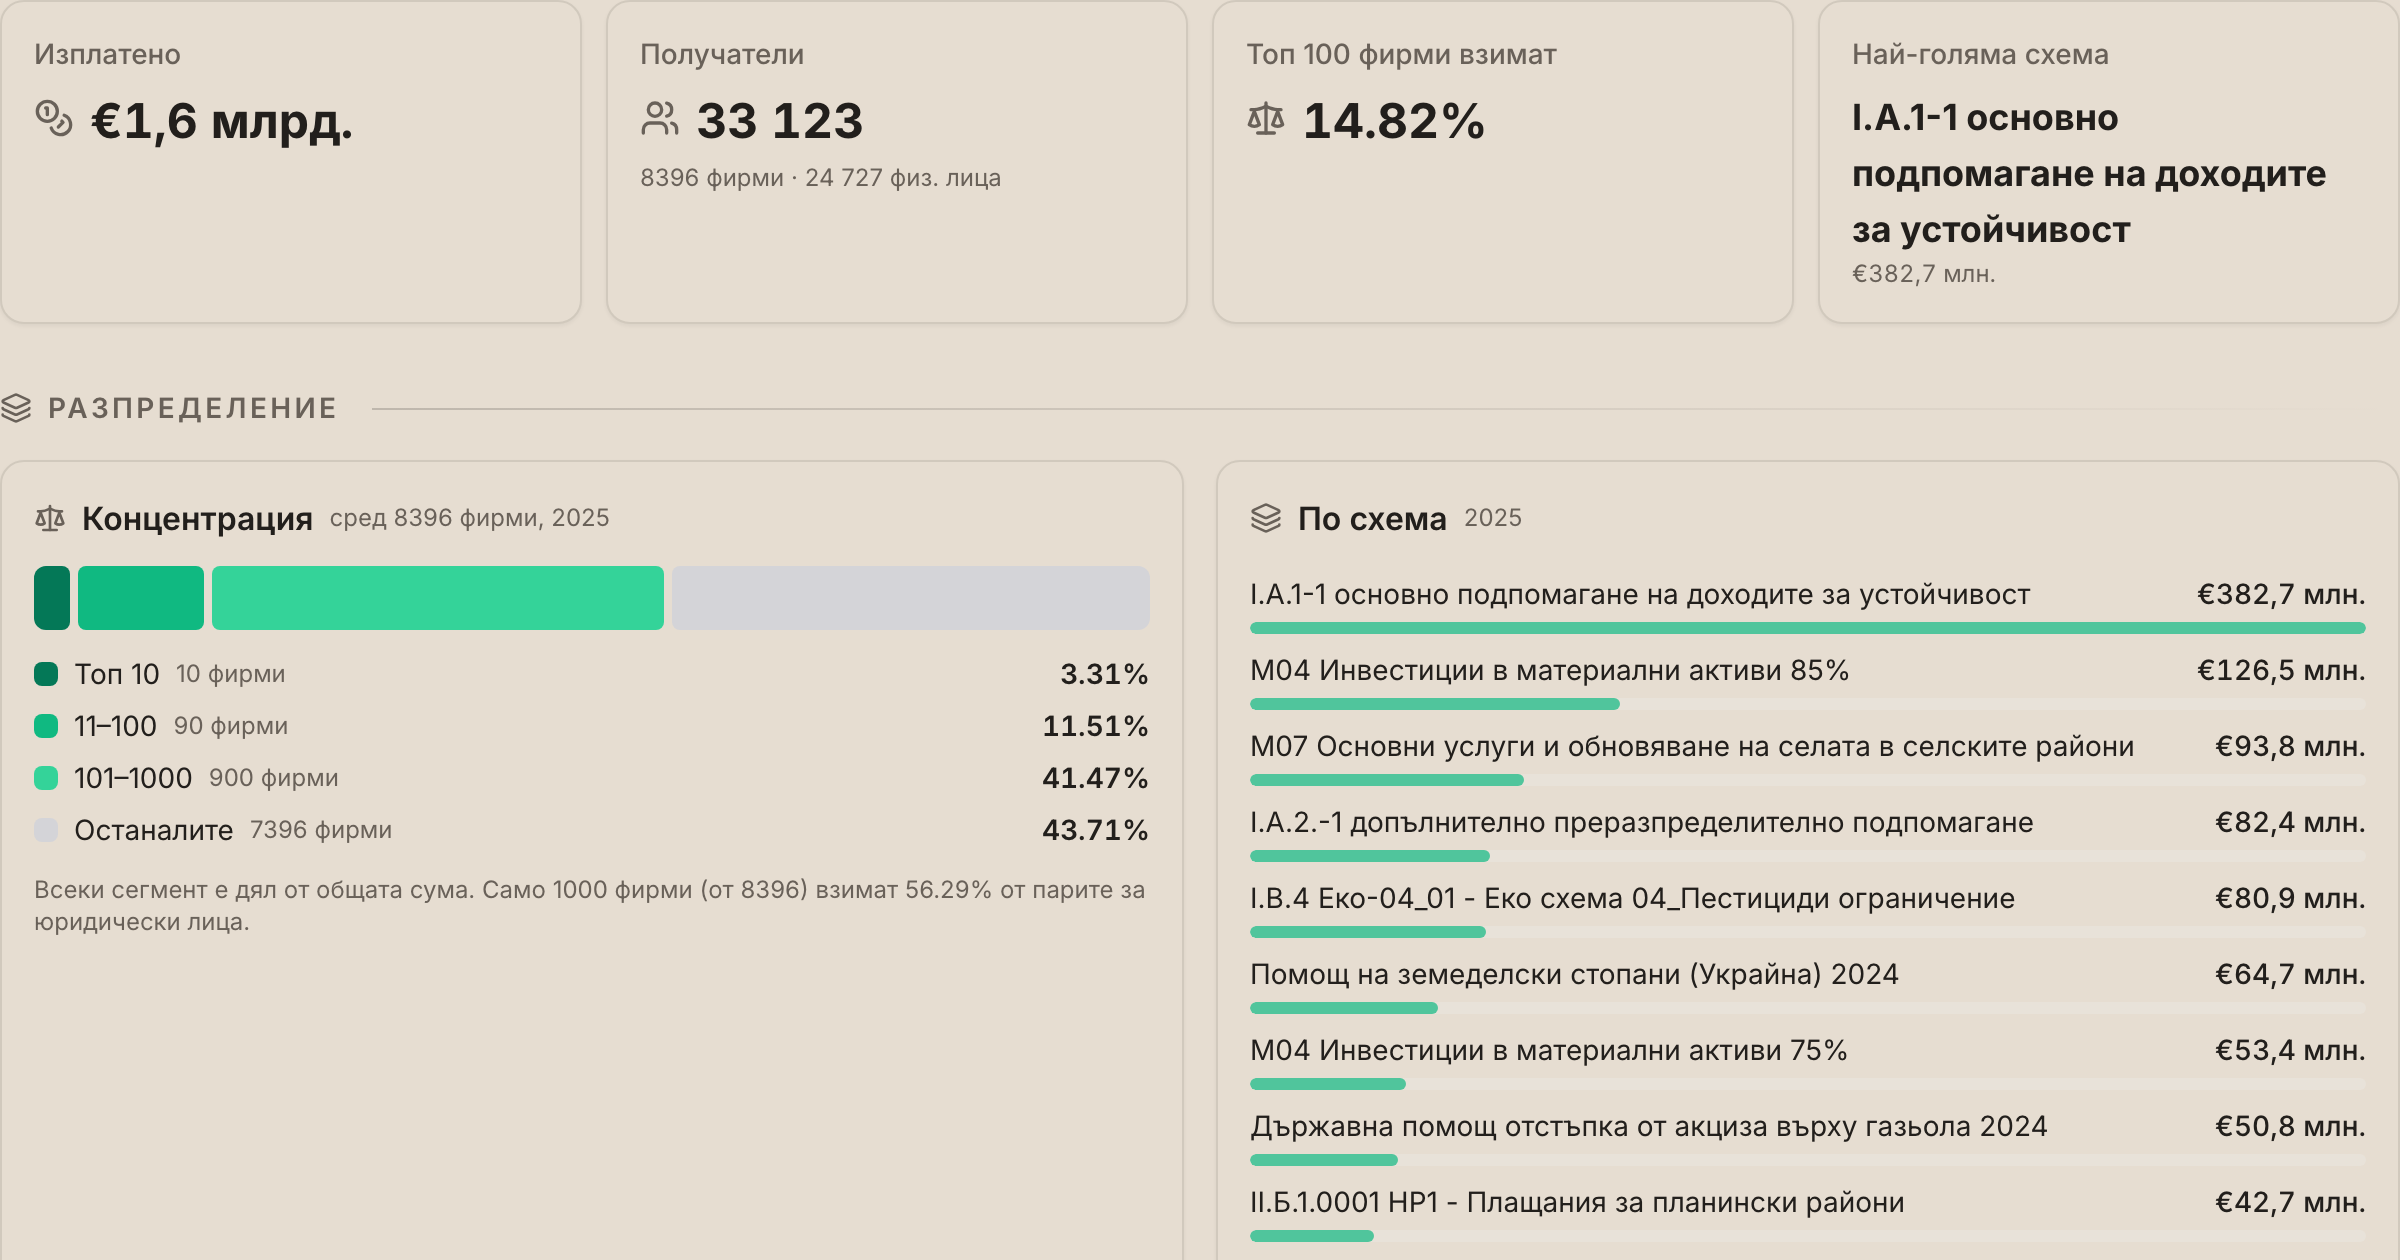
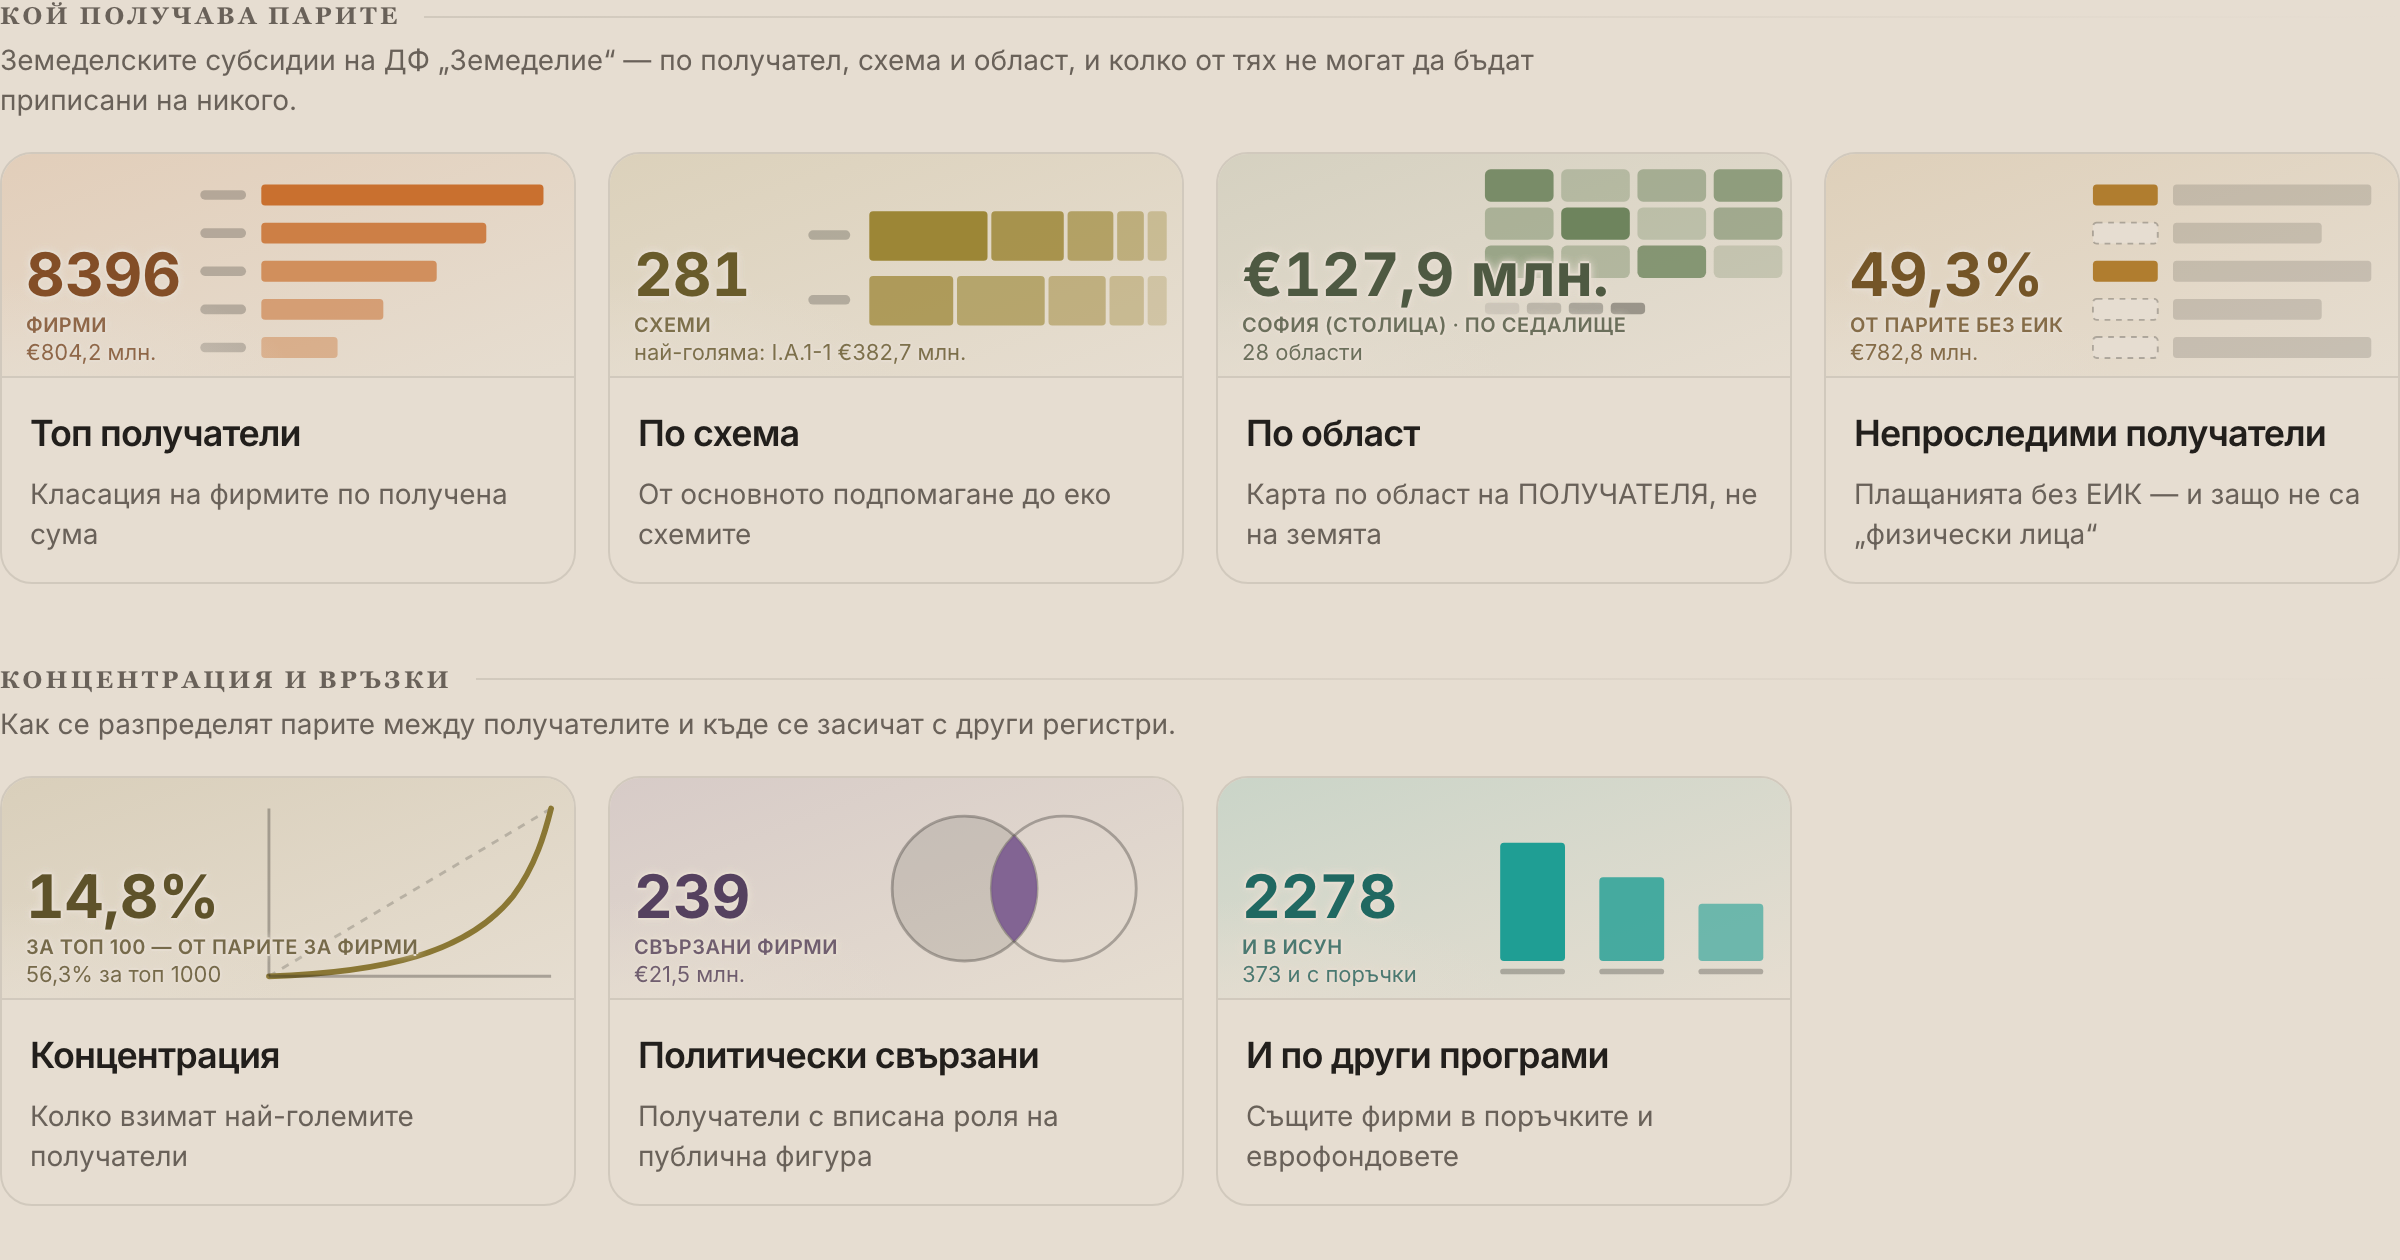
step 10: the artifacts — mostly already shipped, and the hub's card was aimed at a deleted element
§8 asks for three artifacts per page. Nine of the ten already had all three:
they landed in the same commits as their screens, and `subsidies` is an ENFORCED
family in ogAndSitemapCoverage.test.ts, which is what made that hold. What was
left was the hub's own card.

Its capture entry still anchored on `[data-og="subsidies-hero"]` — the KPI strip
step 7 removed because every figure it carried became a tile metric. That run
would have failed loudly (waitForSelector times out at 30s and the run exits 1),
but a failed capture leaves the PREVIOUS png untouched, so the card on disk would
have kept depicting the deleted dashboard until someone re-ran it.

I went against §8 on one point, deliberately. It says to drop the viewport below
1280 so the grid renders three columns instead of slicing a fourth. Tried that:
the card came out a third empty, because the bands are sized 4/3/4/2 precisely
FOR the xl four-column grid and three columns strand band 1's fourth tile. The
fix is the one the previous entry used on the same clip — cap <main> at 1216px so
four columns fit the 1200 crop exactly. Measured on the shipped png: tile borders
land at 0 and 1199.5, edge to edge, no slice.

Reading the card then found a real defect in the Places scene: its lattice ran
under the tile's own metric. „€127,9 млн." plus „СОФИЯ (СТОЛИЦА) · ПО СЕДАЛИЩЕ"
reaches viewBox x=203 and x=212, so the first fix — sliding the lattice right to
[…]

diff --git a/scripts/og/capture-screens.ts b/scripts/og/capture-screens.ts
@@ -959,16 +959,31 @@ const captures: Capture[] = [
   {
     slug: "subsidies",
     routePath: "subsidies",
-    // KPI row (paid / recipients / top-100 share / largest scheme) sitting above
-    // the concentration bar + scheme ranking. Top-aligned on the KPI grid so the
-    // clip leads with the headline numbers and carries the distribution tiles.
-    // The dashboard shell is full-bleed, so at the 1280px capture viewport the
-    // KPI grid is 1249px wide and the outer stat cards get sliced by the 1200px
-    // clip. Capping <main> at 1216px (grid + its 2x8px padding) makes the grid
-    // exactly 1200 so the clip frames it edge to edge. The viewport itself stays
-    // 1280, so the xl: two-column distribution grid below survives.
-    waitFor: '[data-og="subsidies-hero"]',
-    anchor: '[data-og="subsidies-hero"]',
+    // /subsidies is now a TILE HUB (plan step 7), so the card leads with the first band of
+    // tiles — the same shape as /governance and /governance/declarations below.
+    //
+    // The anchor MOVED: it was `[data-og="subsidies-hero"]`, the KPI strip step 7 removed
+    // because every figure it carried became a tile metric. That capture would have FAILED
+    // loudly — `waitForSelector` times out at 30s, throws, and the run exits 1 under the
+    // „⚠ N FAILED" banner — but a failed capture leaves the PREVIOUS png untouched, so the
+    // card on disk would have kept depicting a deleted dashboard until someone re-ran it.
+    //
+    // `waitFor` names a tile's link rather than the container. Note this buys less than it
+    // looks: `InfographicTile`'s root element IS the `<Link>`, so the anchor and the links
+    // appear in the same commit and the ` a` cannot catch a grid that has rendered without
+    // its metrics. What actually covers that is `networkidle` plus `settleMs`. The real
+    // hazard is documented at SubsidiesDashboardScreen.tsx's `hubFailed` — a card shot while
+    // /api/db/agri-hub-stats is down shows thirteen tiles with no numbers — and the only
+    // guard against it is reading the png, which §8 requires anyway.
+    //
+    // STAYS AT THE SHARED 1280 — deliberately, against the plan's own advice to drop below it.
+    // The bands are sized 4/3/4/2 precisely so none strands a tile on a second row of the xl
+    // FOUR-column grid; at three columns band 1's fourth tile wraps alone and the card is a
+    // third empty. Instead the fix is the one the previous entry used for the same clip: cap
+    // <main> at 1216px (the 1200 grid plus its 2x8px padding) so four columns fit the crop
+    // edge to edge rather than being sliced.
+    waitFor: '[data-og="subsidies-hub"] a',
+    anchor: '[data-og="subsidies-hub"]',
     settleMs: 2500,
     extraCss:
       "[data-community-banner]{display:none!important;} main{max-width:1216px!important;}",

diff --git a/src/screens/subsidies/subsidiesScenes.tsx b/src/screens/subsidies/subsidiesScenes.tsx
@@ -134,6 +134,20 @@ const Schemes: FC = () => {
 
 // По област — a coarse map-ish lattice of regions at different intensities. Not a bar chart:
 // the destination is a choropleth, and the scene should read as territory.
+//
+// IT CLEARS THE METRIC VERTICALLY, NOT HORIZONTALLY, and the difference is the whole note.
+// This tile carries the longest overlay on the hub — a money figure plus „СОФИЯ (СТОЛИЦА) ·
+// ПО СЕДАЛИЩЕ" — and measured on the rendered card that text reaches viewBox x=203 (the
+// caption x=212). Sliding the lattice rightwards to escape it was the first fix and it did
+// not work: at x=178 the first column still sat under the caption, and pushing to x=216 costs
+// a column and leaves the sub-`sm` thumbnail (where the scrim and the metric are both hidden)
+// with its left 59% empty.
+//
+// The safe box is `x < 132 AND y > 72`, so the honest escape is UP. The lattice now occupies
+// y=8..66, entirely above the overlay band, and can therefore keep its full four columns at
+// x=140 where the thumbnail still reads. The ink legend ramp came back with it: without it
+// this was the only scene in the set with no `currentColor` at all, so it lost the theme-flip
+// every other scene has.
 const Places: FC = () => {
   const cells = [
     [0.9, 0.35, 0.5, 0.7],
@@ -146,27 +160,28 @@ const Places: FC = () => {
         row.map((v, c) => (
           <rect
             key={`${r}-${c}`}
-            x={150 + c * 34}
-            y={18 + r * 28}
-            width={30}
-            height={24}
+            x={140 + c * 40}
+            y={8 + r * 20}
+            width={36}
+            height={17}
             rx={3}
             fill="var(--sector)"
             opacity={v}
           />
         )),
       )}
-      {/* a legend ramp in ink, left of the lattice and above the scrim */}
+      {/* The legend ramp, in INK — under the scrim rather than fighting the number, and the
+          scene's only theme-flipping mark. */}
       {[0, 1, 2, 3].map((i) => (
         <rect
           key={i}
-          x={100}
-          y={22 + i * 12}
-          width={30}
-          height={7}
+          x={140 + i * 22}
+          y={78}
+          width={18}
+          height={6}
           rx={2}
           fill="currentColor"
-          opacity={0.15 + i * 0.14}
+          opacity={0.14 + i * 0.13}
         />
       ))}
     </SceneFrame>

diff --git a/src/screens/SubsidiesDashboardScreen.tsx b/src/screens/SubsidiesDashboardScreen.tsx
@@ -441,8 +441,11 @@ export const SubsidiesDashboardScreen: FC = () => {
           // an element that can never appear — a hang, not a failure, with the stale card
           // depicting the deleted dashboard still on disk and no coverage gate firing.
           //
-          // Step 10 must repoint that entry at `subsidies-hub` and re-shoot with a sub-1280
-          // viewport (plan §8). The anchor lives here now so step 10 has something to aim at.
+          // Step 10 repointed that entry at `subsidies-hub` and re-shot. It kept the shared
+          // 1280 viewport AGAINST the plan's sub-1280 advice: the bands are sized 4/3/4/2 for
+          // the xl four-column grid, so three columns strand band 1's fourth tile and leave
+          // the card a third empty. `main{max-width:1216px}` makes the four columns fit the
+          // 1200 crop exactly instead — measured, the tile borders land on 0 and 1199.5.
           data-og="subsidies-hub"
         >
           {hubFailed && (
